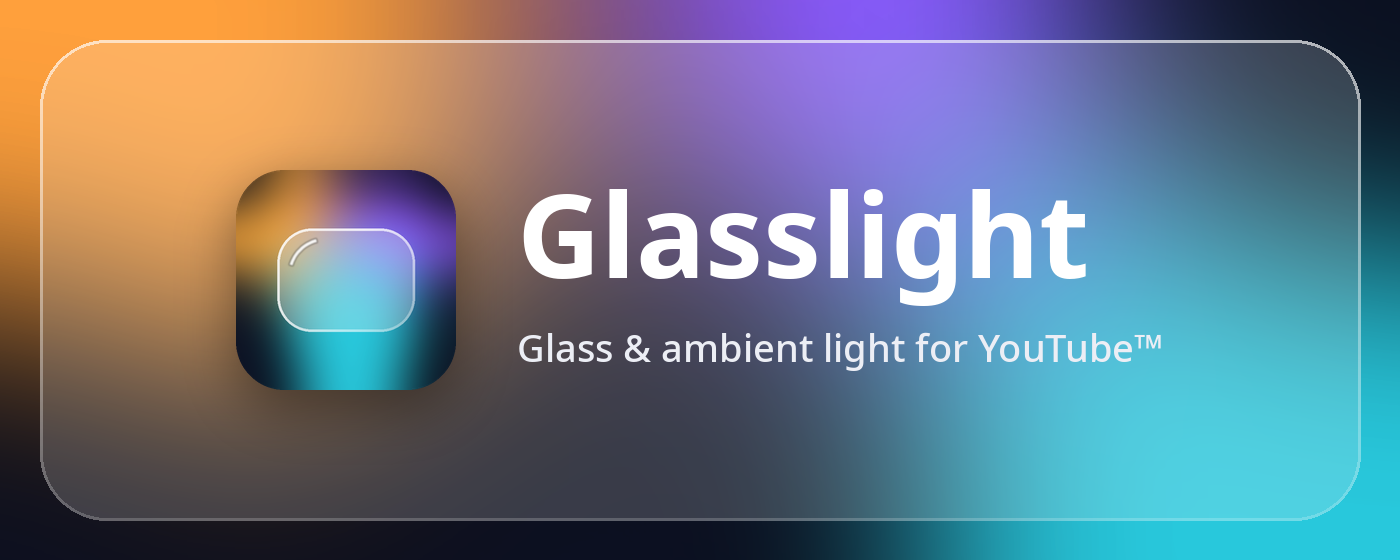
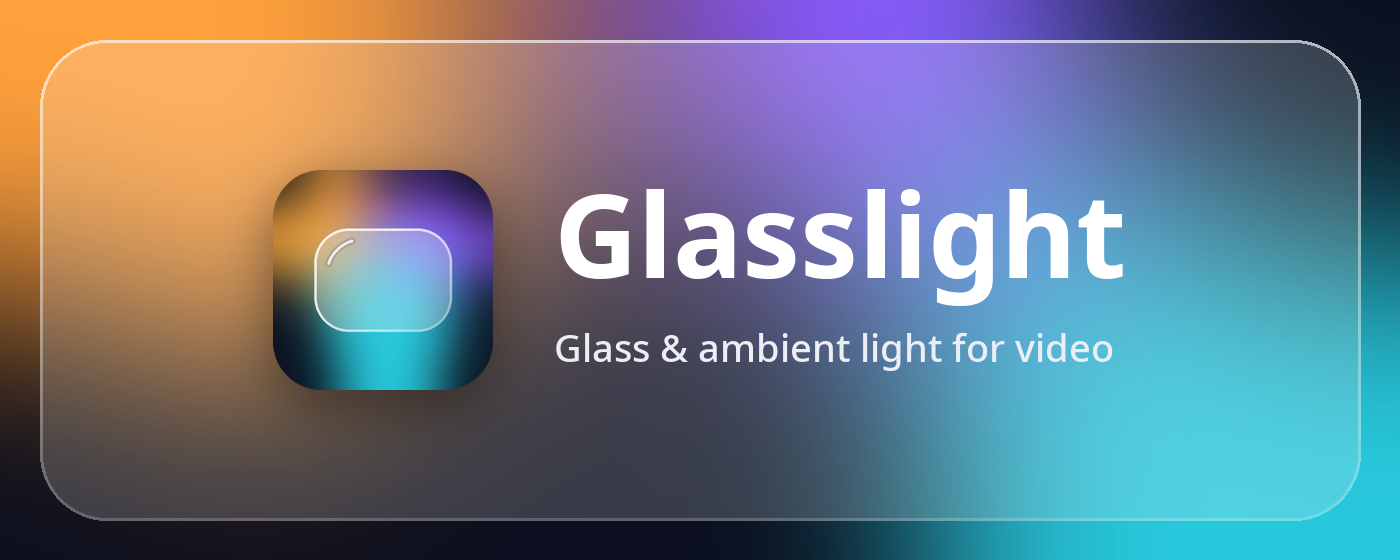
chore: regenerate store promo tiles without site names
- 方向：產品名稱與宣傳素材不放其他公司的商標，宣傳圖副標原本仍寫 "for YouTube™"
- 改動：重新產生 440×280 與 1400×560 宣傳圖（副標 "Glass & ambient light for video"）；
  make_promos.py 可用 NOTO_DIR 指定 Noto Sans 字型位置，預設路徑不變
- 狀態：完成

Changed region(s): [[0.1536, 0.3036, 0.8293, 0.6982]]

diff --git a/store/src/make_promos.py b/store/src/make_promos.py
@@ -3,15 +3,17 @@
 
 store/promo-small-440x280.png   (required)
 store/promo-marquee-1400x560.png (optional)
-Font: Noto Sans (SIL Open Font License).
+Font: Noto Sans (SIL Open Font License); set NOTO_DIR to a folder holding
+NotoSans-Bold.ttf and NotoSans-Medium.ttf if they are not in /usr/share/fonts/noto.
 """
+import os
 import pathlib
 
 from PIL import Image, ImageChops, ImageDraw, ImageFilter, ImageFont
 
 HERE = pathlib.Path(__file__).resolve().parent
 STORE = HERE.parent
-FONT_DIR = pathlib.Path('/usr/share/fonts/noto')
+FONT_DIR = pathlib.Path(os.environ.get('NOTO_DIR', '/usr/share/fonts/noto'))
 ICON = Image.open(HERE / 'icon-master-512.png').convert('RGBA')
 
 

diff --git a/TODO.md b/TODO.md
@@ -37,7 +37,7 @@
 
 - [ ] 非播放頁沒有縮圖取色，背景只有底色（需另外抓動畫瘋封面圖）
 - [x] 正式名稱改為 "Glasslight"；網站名稱只出現在說明中，六語系說明、README、PRIVACY、商店文案都附免責與商標聲明
-- [ ] 重新產生宣傳圖（`store/src/make_promos.py` 副標已改，但需要 Noto Sans 字型，本機沒有），舊圖仍寫 "for YouTube™"
+- [x] 重新產生宣傳圖，副標改為 "Glass & ambient light for video"（本機用 `NOTO_DIR=<字型資料夾>` 指定 Noto Sans）
 - [x] `PRIVACY.md` 與 `store/listing.md` 補上新增網站（單一用途與權限說明也已更新）
 - [ ] **待決定**：合併到 `main`、升版本、`python3 scripts/build.py`（目前 build 驗證通過）、發 Release
 - [ ] 若選擇器有誤，集中修改 `src/content/ani-gamer.js` 的 `LG.site` 與 `NAV_GLASS`，以及 `src/styles/ani-gamer.css`
